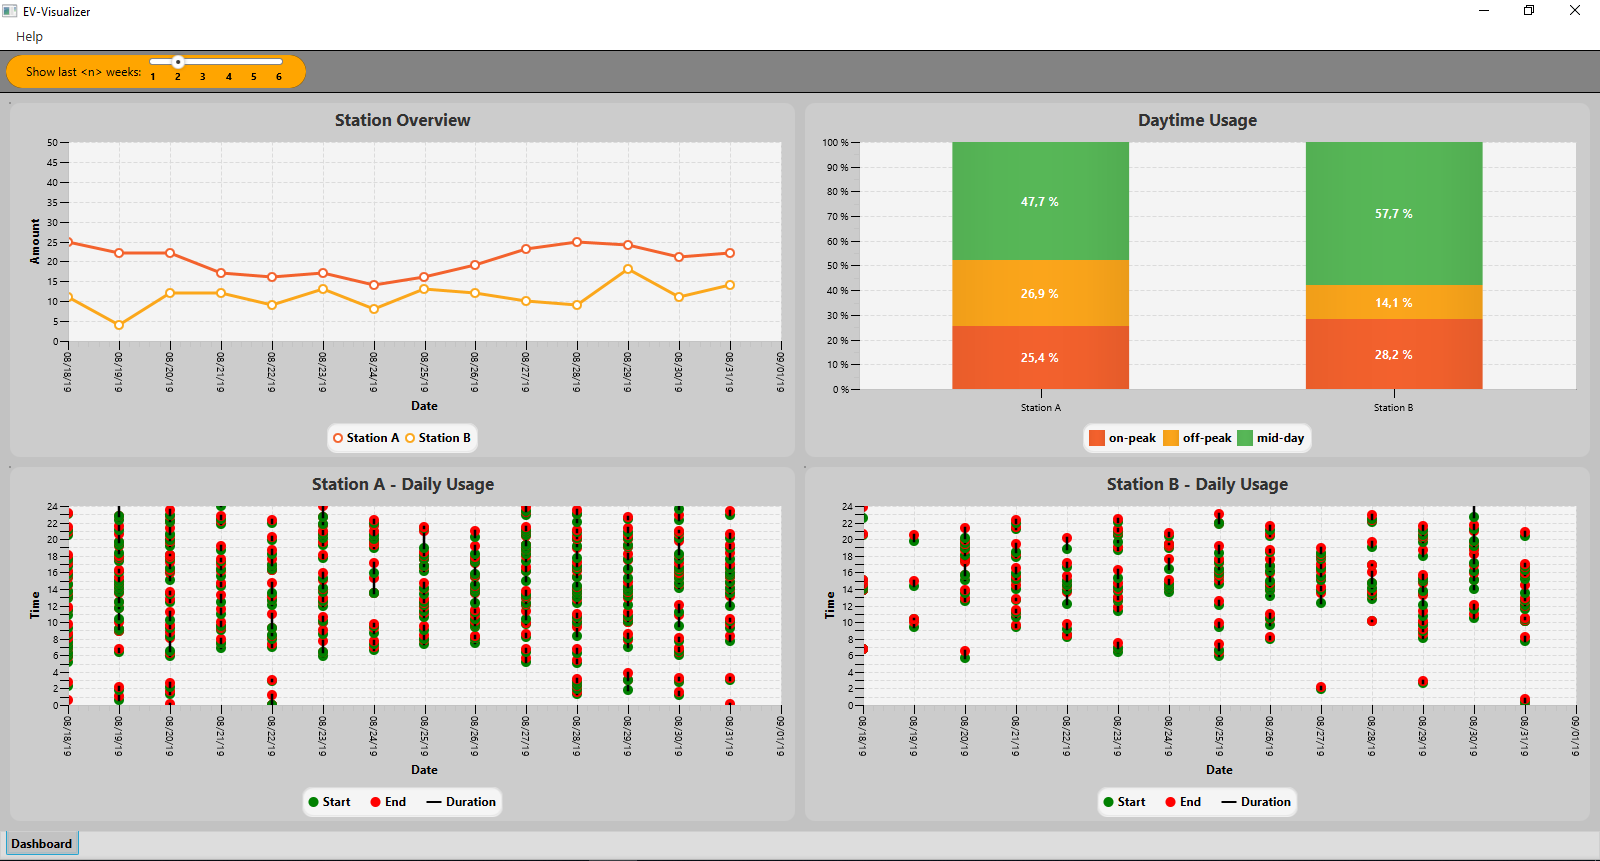
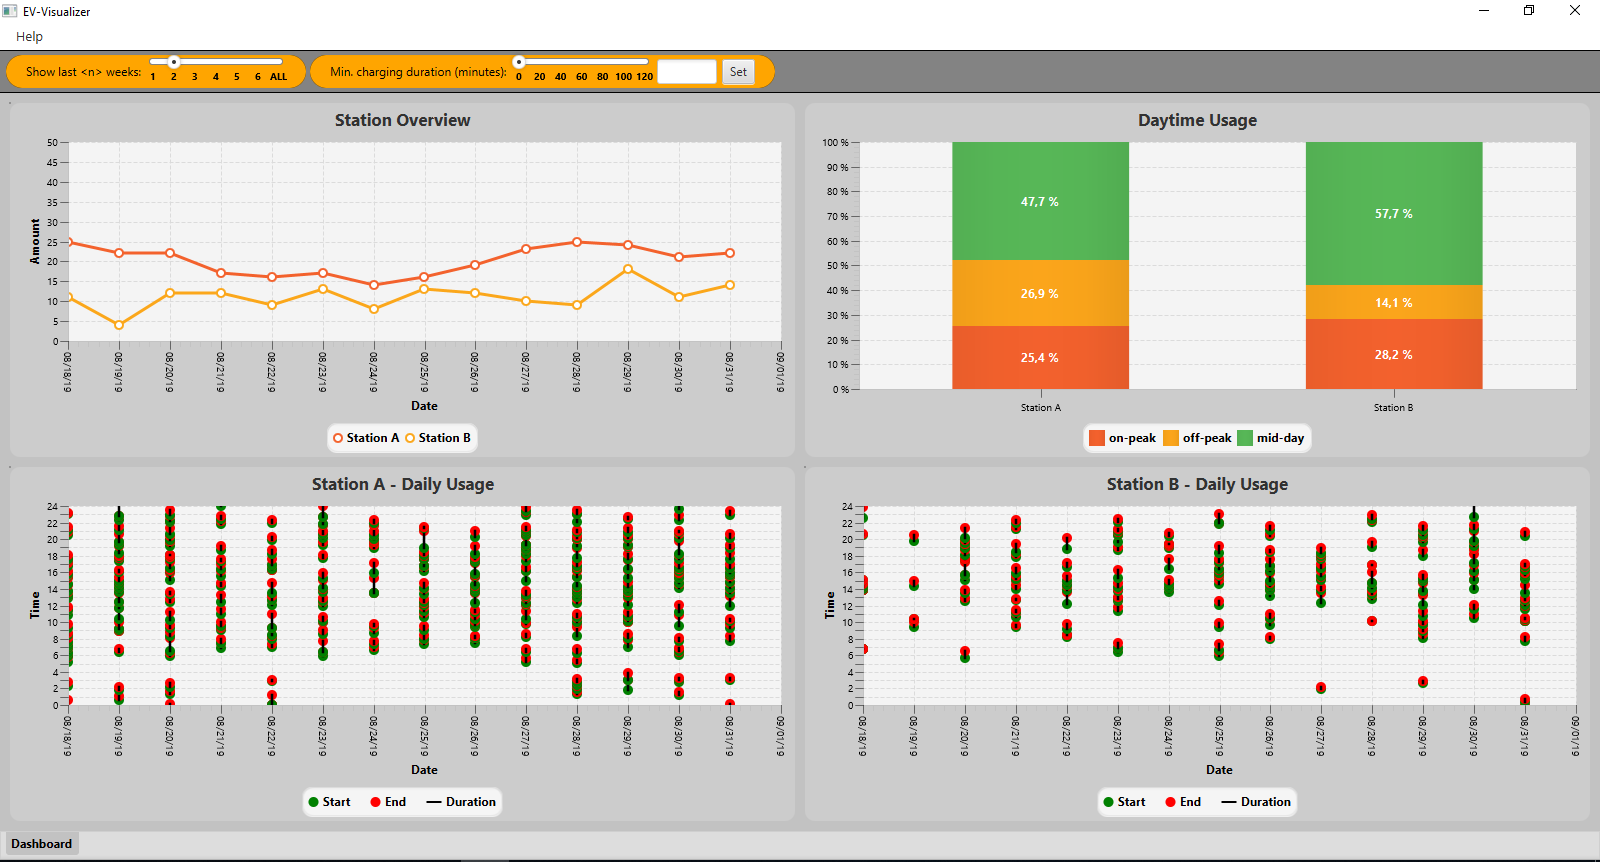
update readme and img

diff --git a/README.md b/README.md
@@ -35,7 +35,8 @@ The whole program is designed in a tab-layout, similar to a browser.
 
 The Dashboard is the main entry point of the application. It behaves like a cockpit to see relevant and actual data trends immediately.<br>
 Default date range is 2 weeks - this means, that the data from the last 2 weeks is shown in the charts. (*actual date is faked as 9/1/2019*)<br>
-This is also indicated through the slider in the upper left corner. It's possible to view the data up to the last 6 weeks. The slider is only enabled in the Dashboard-tab.<br>
+This is also indicated through the slider in the upper left corner. It's possible to view the data up to the last 6 weeks or the whole data set.<br>
+It's also possible to filter data based on the duration of each charge cycle. Therefore the second slider is used to set the minimum charge cycle duration.<br>
 On every chart it's possible to make a right-click to open a context-menu. Depending on the chart, the possible functions differ.<br>
 ![Dashboard](/img/dashboard.png "Dashboard")
 
